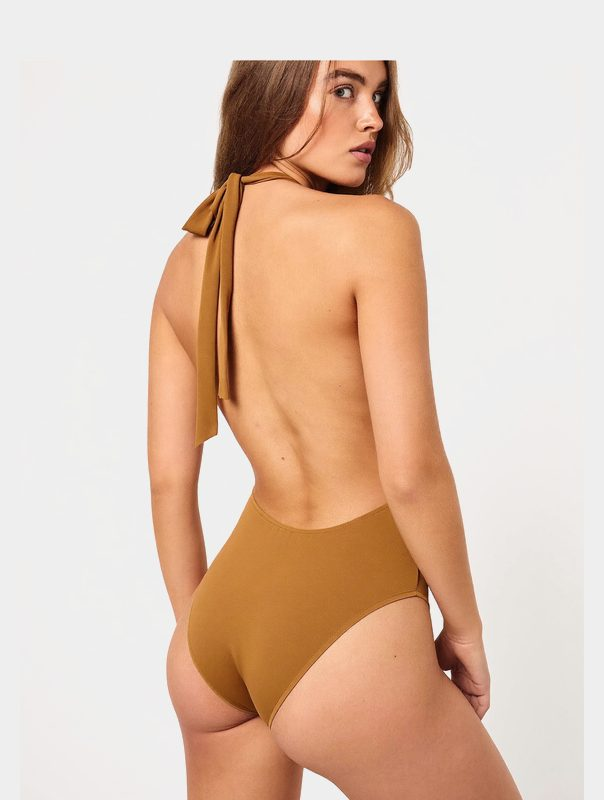
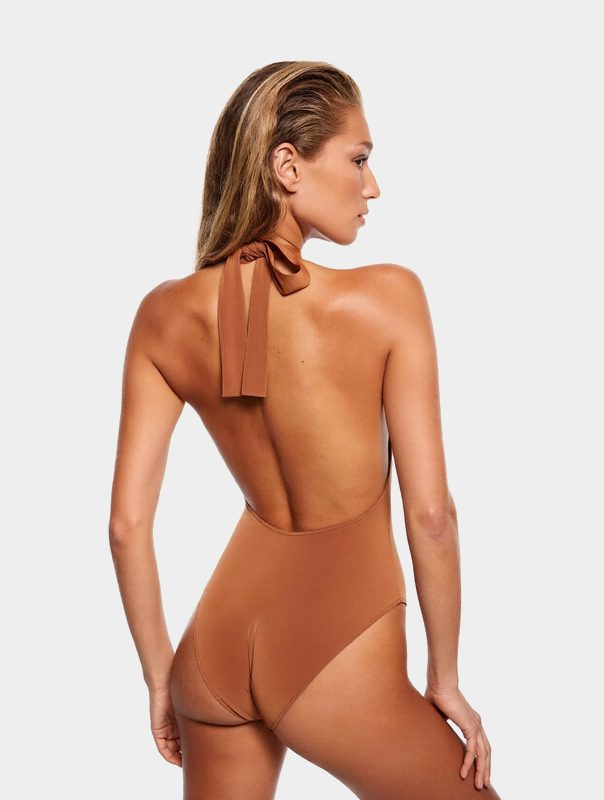
Catch heads cut below the frame edge, and reshoot the three affected
Three cards showed the crown sliced off. The edge tests missed them
because the cut sat a little below the top edge rather than at it -
Estella's source had 25 rows of clean white and then her head appearing
at 29% of the frame width, which is a cut head with a sliver of
backdrop above.

A crown starts narrow and widens into the head, so the first rows of an
intact subject are a small fraction of body width. Measured across 22
frames that separates cleanly: intact 0.06-0.14, cut 0.39-0.41. The
check sits at 0.25 and flagged exactly the three reported, clearing the
other nineteen.

Estella's back, Mirabel's front and Riviera's back reshot. Page one is
complete and audits clean.

diff --git a/scripts/key-to-card.py b/scripts/key-to-card.py
@@ -65,7 +65,10 @@ def compose(src: str, dst: str, strict: bool = True) -> int:
         # whole edge, and hair grazing the top is not a cropped head. The
         # thresholds are set from measured good and bad frames.
         m = np.abs(a.astype(np.float32) - bg).max(axis=2) > SUBJECT
-        if m[0].sum() > 0.25 * w:          # head or shoulders cut by the top
+        # The crown must be clear of the top. Hair reaching the edge is a
+        # cropped head on the card, so the tolerance here is only wide enough
+        # for a few stray pixels, not for a band of hair.
+        if m[0].sum() > 0.02 * w:
             raise BadFraming(src)
         if (m[:, 0].sum() > 0.45 * h) or (m[:, -1].sum() > 0.45 * h):
             raise BadFraming(src)          # body running off a side
@@ -75,10 +78,16 @@ def compose(src: str, dst: str, strict: bool = True) -> int:
         # than every other card.
         if bottom < h - EDGE:
             raise BadFraming(src)
-        # Whether the shot actually contains a head, and whether the model is
-        # framed like the others, is not reliably measurable here - a headless
-        # mannequin crop passes every geometric test. Those are caught by
-        # reviewing each batch as a contact sheet before it is accepted.
+        # A crown starts narrow and widens into the head. If the subject is
+        # already near body width in its very first rows, the frame has cut
+        # straight across the head - which happens a little below the edge as
+        # often as at it, so an edge test alone misses it. Measured across
+        # known frames: intact 0.06-0.14, cut 0.39-0.41.
+        widths = m.sum(axis=1)
+        crown = float(np.median(widths[top:top + 8]))
+        body = float(np.percentile(widths[top:bottom], 90))
+        if body and crown / body > 0.25:
+            raise BadFraming(src)
 
     scale = (FIGURE_H * H) / (bottom - top + 1)
     im = im.resize((round(im.width * scale), round(im.height * scale)), Image.LANCZOS)
